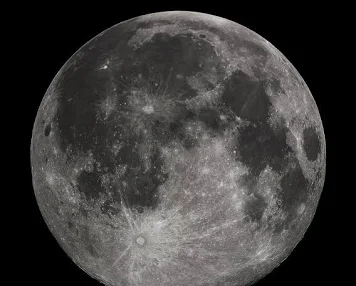
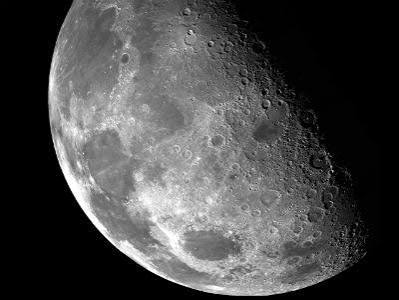
Fill cards with updated planet images

diff --git a/lib/main.dart b/lib/main.dart
@@ -397,39 +397,50 @@ class SpaceCard extends StatelessWidget {
           builder: (_) => DetailPage(object: object, controller: controller),
         ),
       ),
-      child: Column(
-        crossAxisAlignment: CrossAxisAlignment.start,
+      child: Stack(
         children: [
-          Stack(
-            children: [
-              Hero(
-                tag: 'image-${object.id}',
-                child: PlanetImage(object: object),
-              ),
-              Positioned(
-                top: 14,
-                left: 14,
-                child: DecoratedBox(
-                  decoration: BoxDecoration(
-                    color: background.withValues(alpha: .75),
-                    borderRadius: BorderRadius.circular(20),
-                  ),
-                  child: Padding(
-                    padding: const EdgeInsets.symmetric(
-                      horizontal: 11,
-                      vertical: 7,
-                    ),
-                    child: Text(
-                      object.type.label,
-                      style: const TextStyle(fontSize: 10, color: accent),
-                    ),
+          Hero(
+            tag: 'image-${object.id}',
+            child: PlanetImage(object: object),
+          ),
+          const Positioned.fill(
+            child: IgnorePointer(
+              child: DecoratedBox(
+                decoration: BoxDecoration(
+                  gradient: LinearGradient(
+                    begin: Alignment.topCenter,
+                    end: Alignment.bottomCenter,
+                    colors: [Colors.transparent, Color(0xDD080C12)],
+                    stops: [0.42, 1],
                   ),
                 ),
               ),
-            ],
+            ),
           ),
-          Padding(
-            padding: const EdgeInsets.fromLTRB(18, 12, 10, 18),
+          Positioned(
+            top: 14,
+            left: 14,
+            child: DecoratedBox(
+              decoration: BoxDecoration(
+                color: background.withValues(alpha: .75),
+                borderRadius: BorderRadius.circular(20),
+              ),
+              child: Padding(
+                padding: const EdgeInsets.symmetric(
+                  horizontal: 11,
+                  vertical: 7,
+                ),
+                child: Text(
+                  object.type.label,
+                  style: const TextStyle(fontSize: 10, color: accent),
+                ),
+              ),
+            ),
+          ),
+          Positioned(
+            left: 18,
+            right: 10,
+            bottom: 12,
             child: Row(
               children: [
                 Expanded(
@@ -446,7 +457,10 @@ class SpaceCard extends StatelessWidget {
                       const SizedBox(height: 3),
                       Text(
                         object.subtitle,
-                        style: const TextStyle(fontSize: 12, color: muted),
+                        style: const TextStyle(
+                          fontSize: 12,
+                          color: Colors.white70,
+                        ),
                       ),
                     ],
                   ),
@@ -472,7 +486,7 @@ class PlanetImage extends StatelessWidget {
       object.image,
       width: double.infinity,
       height: double.infinity,
-      fit: BoxFit.contain,
+      fit: BoxFit.cover,
       semanticLabel: 'Иллюстрация: ${object.name}',
       errorBuilder: (_, error, stack) => const ColoredBox(
         color: surface,
